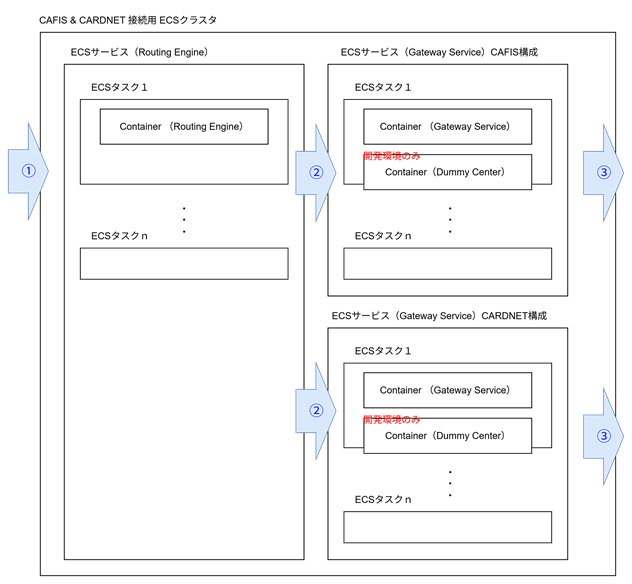
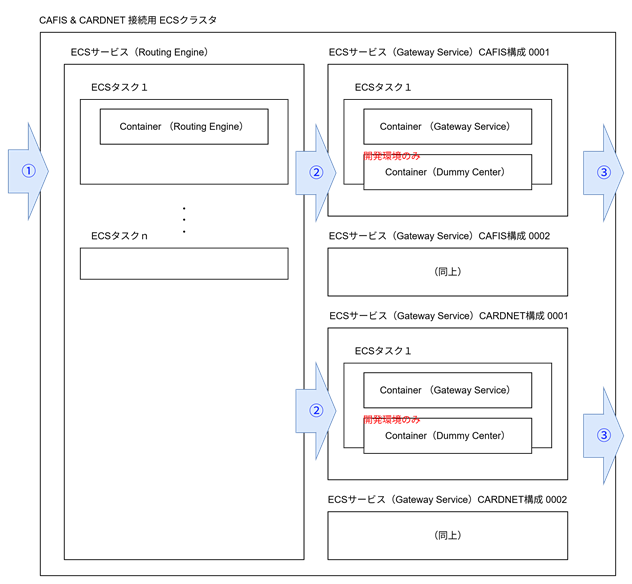
1

diff --git a/FEXICS/03-functions.md b/FEXICS/03-functions.md
@@ -15,14 +15,14 @@
 - 機能要件
   - 実行環境
   - 各コンポーネント機能
-  - 共通事項
-    - ログ要件
-  - Routing Engine
-    - 死活監視 
-  - Gateway Service
-    - 接続センターによる通信仕様変更
-  - Dummy Center
-    - 開発環境モード
+    - 共通事項
+      - ログ要件
+    - Routing Engine
+      - 死活監視 
+    - Gateway Service
+      - 接続センターによる通信仕様変更
+    - Dummy Center
+      - 開発環境モード
 
 ---
 
@@ -35,14 +35,12 @@ TODO : 図
 本章では、FEXICS代替として新規開発する **Routing Engine** および **Gateway Service** の機能要件を定義する。  
 機能の洗い出しは、既存コンポーネント（AP02, AP03, AP22）のソースコード調査結果に基づく。
 
-#### 記載対象
-
 | コンポーネント | 役割 |
 |---------------|------|
 | **Routing Engine** | 業務アプリからの電文を受信し、適切な Gateway Service に振り分ける |
 | **Gateway Service** | CAFIS/CARDNET との接続管理および電文変換を行う。決済ネットワーク事業者 = MC間の契約回線ごとに配置 |
 
-## 1.1 実行環境
+## 2.1 実行環境
 
 **Routing Engine** および **Gateway Service** は Amazon ECS 内で動作するコンテナ環境で動作します。
 
@@ -61,26 +59,70 @@ TODO : 図
 - 受けた電文がどちらの仕様で動作するかは、各々の Gateway Service の起動設定で決定します。   
   (Strategy Pattern の実装イメージ)
 
+- Gateway Service は 各サービス タスク数 = 1 で運用します。
+
 #### [処理フロー]
 
-1. ① AP02, または AP22 からの通信を Routing Engine が受ける
+1. ① AP02 または AP22 からの通信を Routing Engine が受ける
 2. ② 受けたデータを対応する Gateway Service の生存インスタンスに転送する（ヘッダ判定）
 3. ③ カード会社ネットワークへの通信を行う  
    ※ TCP接続は CAFIS | CARDNET 側から行われ常時接続となるため、データ部の送信となる。
 
 #### 開発環境の動作
-開発環境はカード会社ネットワークへの接続が行えないため、`Dummy Center` sidecar を構成し、そこに通信を行う。  
+
+開発環境はカード会社ネットワークへの接続が行えないため、`Dummy Center` sidecar を構成し、そこに通信を行います。
 ※ タスク定義でデプロイする
 
 ![タスク定義](./img/system_architect-ecs-setting.png)
 
-
-
 #### データストア
 Gateway Service は電文データの記録をもつ必要がある。  
-※ 主に、取引の前回処理結果を参照する必要のある電文対応： 障害取消など
+※ 主に、取引の前回処理結果を参照する必要のある電文対応： 障害取消など  
+※ その他用途： 電文解析、利用情報分析
 
 データストアは 【🚧TODO】XXX に構築する。
+
+
+## 2.2 各コンポーネント機能
+
+#### 共通事項
+
+### 2.2.1 ログ要件
+
+#### 出力先
+
+- ECS 動作を想定し、出力先は **console（標準出力）** とする。  
+  ※ これにより CloudWatch Logs に記録される。
+
+#### 契機
+
+- システムに対するデータの入出力（アクセスログ）
+- 
+
+#### 保持期間
+
+１年以上保持（PCI DSS 要件）
+
+#### 留意事項
+
+- レベル **ERROR** のログは通知対象となる。サービス影響のある事象に出力を限定すること。
+- カード番号 / 有効期限は**マスクして出力**すること。（PCI DSS 要件）
+
+#### フォーマット例
+
+- フォーマットは Json 形式。以下のフィールドを含むこと。
+
+| カラム | 内容 |
+|--------|------|
+| app | アプリケーション識別 |
+| level | ログレベル |
+| function | 機能識別 |
+| message | 内容 |
+
+**サンプル**
+```
+{"app": "AP30", "level": "INFO", "function": "Main", "message": "アプリケーションを終了します"}
+```
 
 
 #### 機能一覧
@@ -110,43 +152,6 @@ Gateway Service は電文データの記録をもつ必要がある。
 ---
 
 ## 2. 共通事項
-
-### 2.1 ログ要件
-
-#### フォーマット
-
-- フォーマットは Json 形式。以下のフィールドを含むこと。
-
-| カラム | 内容 |
-|--------|------|
-| app | アプリケーション識別 |
-| level | ログレベル |
-| function | 機能識別 |
-| message | 内容 |
-
-**サンプル**
-```
-{"app": "AP26", "level": "INFO", "function": "Main", "message": "アプリケーションを終了します"}
-```
-
-#### 出力先
-
-- ECS 動作を想定し、出力先は **console（標準出力）** とする。  
-  これにより CloudWatch Logs に記録される。
-
-#### 契機
-
-- イベントの発生
-- イベントの結果
-
-#### 保持期間
-
-１年以上保持（PCI DSS 要件）
-
-#### 留意事項
-
-- レベル **ERROR** のログは通知対象となる。サービス影響のある事象に出力を限定すること。
-- カード番号 / 有効期限は**マスクして出力**すること。（PCI DSS 要件）
 
 ---
 
